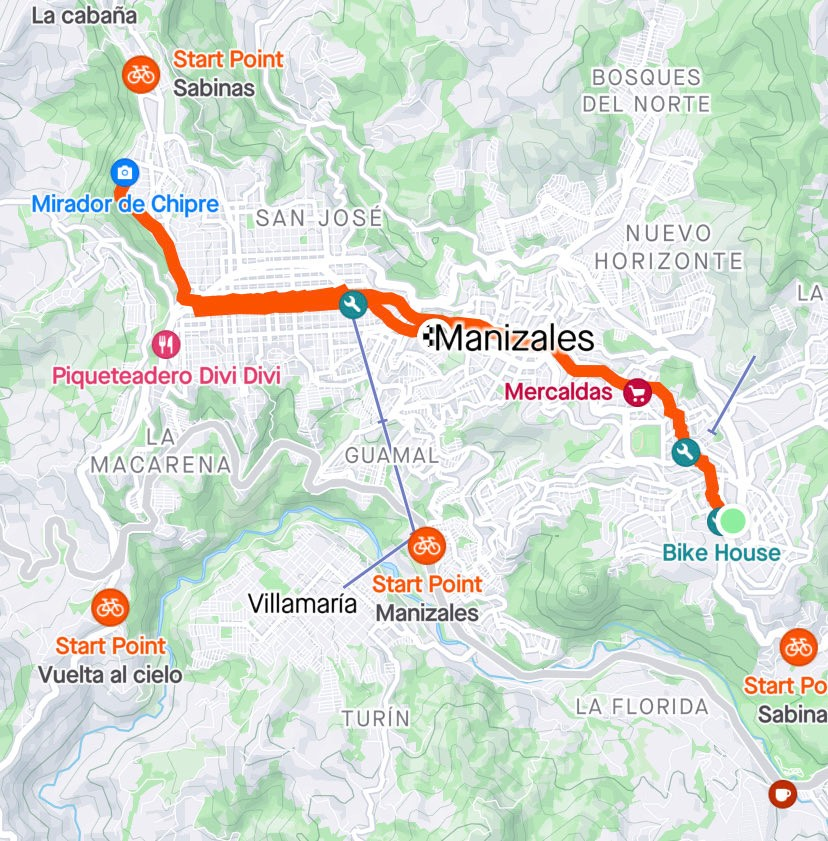
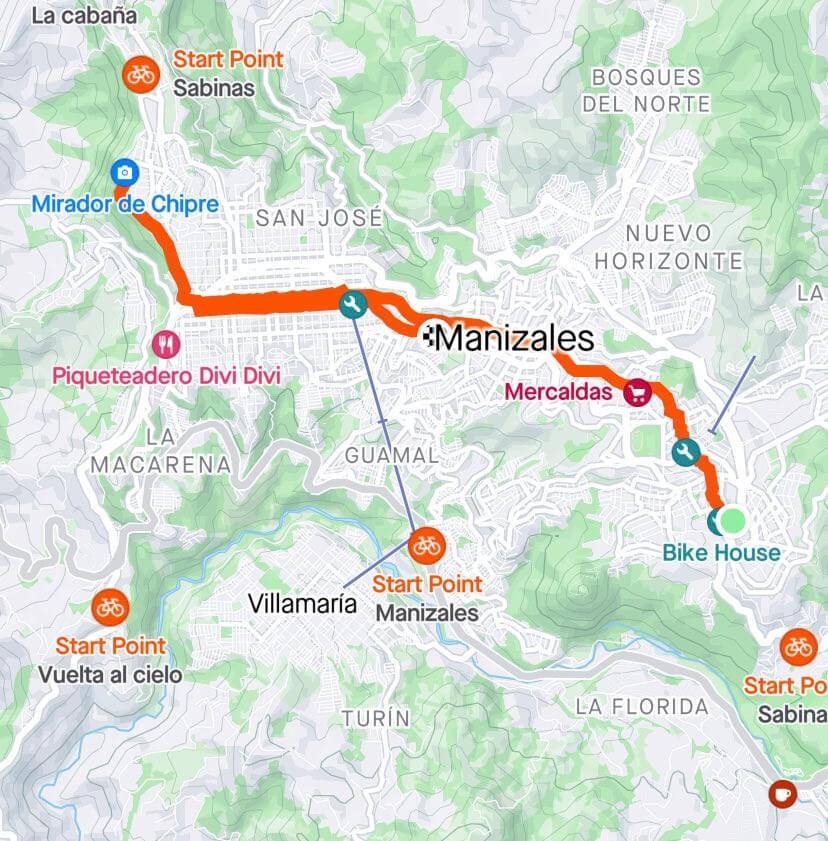
Reducción de peso a las img

diff --git a/src/views/IntermediateDifficulty.vue b/src/views/IntermediateDifficulty.vue
@@ -4,7 +4,7 @@
     </div>
     <div class="dificult">
       <routeDifficulty
-        image="/assets/Acuaparque.jpg"
+        image="/assets/Acuaparque.png"
         ruta="Acquaparque"
         distancia="29.68 km"
         desnivel="723 m"
@@ -12,7 +12,7 @@
         mapa="https://www.google.com/maps/d/u/0/edit?mid=1F1Gb1nsxoZI0uTAbctLif7sRINCebdU&ll=5.037052578096215%2C-75.50634150623236&z=13"
       />
       <routeDifficulty
-        image="/assets/Lapuerta.jpg"
+        image="/assets/Lapuerta.png"
         ruta="La puerta"
         distancia="18.98 km"
         desnivel="451 m"
@@ -20,7 +20,7 @@
         mapa="https://www.google.com/maps/d/u/0/edit?mid=1mCkOnkt5RHDM_fEuBTqrby2W8Crknxc&ll=5.057919739527988%2C-75.4878794368575&z=14"
       />
       <routeDifficulty
-        image="/assets/ReservadelRuiz.jpg"
+        image="/assets/ReservadelRuiz.png"
         ruta="Reserva del ruiz"
         distancia="34.38 km"
         desnivel="794 m"

diff --git a/src/views/BasicDifficulty.vue b/src/views/BasicDifficulty.vue
@@ -12,7 +12,7 @@
         mapa="https://www.google.com/maps/d/u/0/edit?mid=1DA1FyyO7i7A3Bd-JCnwpPoTb9qiBkUE&ll=5.071086503904409%2C-75.51810352059059&z=15"
       />
       <routeDifficulty
-        image="/assets/Bosquepopular.jpg"
+        image="/assets/Bosquepopular.png"
         ruta="Bosque Popular"
         distancia="11.84 km"
         desnivel="257 m"
@@ -20,7 +20,7 @@
         mapa="https://www.google.com/maps/d/u/0/edit?mid=1_T3Akwtwu_5dQkL_jbd9CjrDFdSqlJc&ll=5.043807640211721%2C-75.47479647671528&z=15"
       />
       <routeDifficulty
-        image="/assets/CerrodeOro.jpg"
+        image="/assets/CerrodeOro.png"
         ruta="Cerro de Oro"
         distancia="6.4 km"
         desnivel="142 m"

diff --git a/public/index.html b/public/index.html
@@ -4,7 +4,7 @@
     <meta charset="utf-8">
     <meta http-equiv="X-UA-Compatible" content="IE=edge">
     <meta name="viewport" content="width=device-width,initial-scale=1.0">
-    <link rel="icon" href="%= BASE_URL %>favicon.ico">
+    <link rel="icon" href="<%= BASE_URL %>favicon.ico">
     <link rel="preconnect" href="https://fonts.googleapis.com">
     <link rel="preconnect" href="https://fonts.gstatic.com" crossorigin>
     <link href="https://fonts.googleapis.com/css2?family=Nunito&display=swap" rel="stylesheet">

diff --git a/src/components/molecules/First.vue b/src/components/molecules/First.vue
@@ -30,6 +30,15 @@
   </div>
 </template>
 
+<script>
+export default {
+  name: "First",
+  props: {
+    msg: String,
+  },
+};
+</script>
+
 <style scoped>
 
 * {

diff --git a/src/App.vue b/src/App.vue
@@ -2,7 +2,7 @@
   <div>
     <NavBar/>
     <router-view/>
-    <routeFooter />
+    <routeFooter/>
   </div>
 </template>
 
